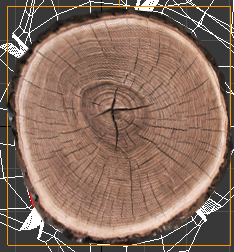
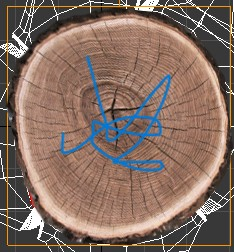
Fix mobileViewer  Conflict in  Main

diff --git a/Front-End/Main-Main-App/DawnPilotFrontEnd/src/pages/MobileViewer/MobileViewer.tsx b/Front-End/Main-Main-App/DawnPilotFrontEnd/src/pages/MobileViewer/MobileViewer.tsx
@@ -1,0 +1,274 @@
+import 'aframe';
+import 'aframe-particle-system-component';
+// eslint-disable-next-line @typescript-eslint/ban-ts-comment
+// @ts-expect-error
+import { Entity, Scene } from 'aframe-react';
+import { useEffect, useRef, useState } from 'react';
+import { useScenarioWorld } from '../../hooks/useScenarioWorld';
+import { useComponentManager } from '../../hooks/useComponentManager';
+import { useFrameBuffer, getFolderHandle } from '../../hooks/useFrameBuffer';
+import { useCameraSync } from '../../hooks/useCameraSync';
+
+// import { SOCKET_URL } from '../../config/api';
+const SOCKET_URL = "http://192.168.1.117:5000";
+
+function MobileView() {
+  const cameraRef = useRef<any>(null);
+  const rigRef = useRef<any>(null);
+
+  const hasReceivedPosition = useRef(false);
+  const [cameraPosition, setCameraPosition] = useState({ x: 0, y: 0, z: 0 });
+
+  const { world, loadWorld } = useScenarioWorld();
+  const { clearAllTimers } = useComponentManager();
+
+  // Mobile follows desktop camera
+  const { isConnected, setOnCameraUpdate } = useCameraSync({
+    clientType: 'mobile',
+    throttleMs: 16
+  });
+
+  // Enable framebuffer capture / saving
+  useFrameBuffer({
+    logInterval: 1000,
+    logPixelData: false,
+    downsamplePercentage: 50
+  });
+
+  // Load world once
+  useEffect(() => {
+    loadWorld()
+      .then(data => {
+        console.log('Mobile - World loaded, entities:', data.entities.length);
+      })
+      .catch(err => {
+        console.error('Failed to load world:', err);
+        alert('Error loading world. Make sure backend is running.');
+      });
+
+    return () => {
+      clearAllTimers();
+    };
+  }, [loadWorld, clearAllTimers]);
+
+  // When desktop camera updates, move/animate rig
+  useEffect(() => {
+    setOnCameraUpdate(camera => {
+      const newPos = camera.position;
+
+      if (!hasReceivedPosition.current) {
+        hasReceivedPosition.current = true;
+        if (rigRef.current?.el?.object3D) {
+          rigRef.current.el.object3D.position.set(newPos.x, newPos.y, newPos.z);
+        }
+      } else {
+        const rigEl = rigRef.current?.el;
+        if (rigEl) {
+          rigEl.setAttribute('animation__follow', {
+            property: 'position',
+            to: `${newPos.x} ${newPos.y} ${newPos.z}`,
+            dur: 200,
+            easing: 'easeOutQuad',
+            startEvents: 'follow-target',
+            autoplay: false
+          });
+          rigEl.emit('follow-target', null, false);
+        }
+      }
+
+      setCameraPosition(newPos);
+    });
+  }, [setOnCameraUpdate]);
+
+  return (
+    <div style={{ background: 'black', width: '100vw', height: '100vh', overflow: 'hidden' }}>
+      <style>{`
+        .a-enter-vr-button {
+          bottom: 20% !important;
+          position: fixed !important;
+          z-index: 99999 !important;
+        }
+        body {
+          overflow: hidden !important;
+        }
+      `}</style>
+
+      {/* WebSocket Connection Status */}
+      <div
+        style={{
+          position: 'absolute',
+          top: 10,
+          right: 10,
+          zIndex: 1000,
+          background: isConnected ? '#4CAF50' : '#f44336',
+          color: 'white',
+          padding: '8px 16px',
+          borderRadius: '4px',
+          fontSize: '12px',
+          fontFamily: 'monospace'
+        }}
+      >
+        {isConnected ? '🟢 Connected' : '🔴 Disconnected'}
+        <div style={{ fontSize: '9px', marginTop: '4px', opacity: 0.8 }}>{SOCKET_URL}</div>
+      </div>
+
+      {/* Mobile Mode Status */}
+      <div
+        style={{
+          position: 'absolute',
+          top: 10,
+          left: 10,
+          zIndex: 1000,
+          background: '#2196F3',
+          color: 'white',
+          padding: '8px 16px',
+          borderRadius: '4px',
+          fontSize: '12px',
+          fontFamily: 'monospace'
+        }}
+      >
+        📱 Mobile Viewer (Following Desktop)
+      </div>
+
+      {/* Camera Position Display */}
+      <div
+        style={{
+          position: 'absolute',
+          top: 50,
+          right: 10,
+          zIndex: 1000,
+          background: 'rgba(0,0,0,0.7)',
+          color: 'white',
+          padding: '8px',
+          borderRadius: '4px',
+          fontSize: '10px',
+          fontFamily: 'monospace'
+        }}
+      >
+        <div>X: {cameraPosition.x.toFixed(2)}</div>
+        <div>Y: {cameraPosition.y.toFixed(2)}</div>
+        <div>Z: {cameraPosition.z.toFixed(2)}</div>
+      </div>
+
+      {/* Folder picker button – calls getFolderHandle from user gesture */}
+      <button
+        style={{
+          position: 'absolute',
+          bottom: 10,
+          right: 10,
+          zIndex: 1000,
+          padding: '8px 16px',
+          borderRadius: 4,
+          border: 'none',
+          cursor: 'pointer',
+          background: '#FF9800',
+          color: '#fff',
+          fontSize: '12px',
+          fontFamily: 'monospace'
+        }}
+        onClick={async () => {
+          try {
+            await getFolderHandle(); // opens showDirectoryPicker once
+          } catch (err) {
+            console.error('Failed to select folder', err);
+          }
+        }}
+      >
+        Select Folder to Save Frames
+      </button>
+
+      <Scene
+        embedded
+        vr-mode-ui="enabled: true"
+        device-orientation-permission-ui="enabled: true"
+        fog="type: linear; color: #111; near: 50; far: 200"
+        style={{ width: '100%', height: '100%' }}
+      >
+        {/* Sky */}
+        <Entity primitive="a-sky" color="#87CEEB" />
+
+        {/* Lights */}
+        <Entity light={{ type: 'ambient', color: '#ffffff', intensity: 0.8 }} />
+        <Entity
+          light={{ type: 'directional', color: '#ffffff', intensity: 1.0 }}
+          position="5 10 2"
+        />
+        <Entity
+          light={{ type: 'directional', color: '#ffffff', intensity: 0.9 }}
+          position="0 2 -6"
+        />
+
+        <Entity
+          primitive="a-plane"
+          position="0 0 -4"
+          rotation="0 0 0"
+          width="20"
+          height="20"
+          color="#ab3232ff"
+          />
+          {/* Ground */}
+        <Entity
+          primitive="a-plane"
+          position="0 -1 -4"
+          rotation="-90 0 0"
+          width="1000"
+          height="1000"
+          color="#000000"
+        />
+
+        {/* Entities from backend */}
+        {world.entities.map(e => {
+          const pos = e.Position || { x: 0, y: 0, z: 0 };
+          const rot = e.Rotation || { x: 0, y: 0, z: 0 };
+          const scl = e.Scale || { x: 1, y: 1, z: 1 };
+          const color = e.Color?.value || '#fff';
+          const url = e.Model?.url;
+
+          if (url === 'Aframe') {
+            const tag = `a-${e.name.toLowerCase()}`;
+            return (
+              <Entity
+                key={e.id}
+                primitive={tag}
+                position={`${pos.x} ${pos.y} ${pos.z}`}
+                rotation={`${rot.x} ${rot.y} ${rot.z}`}
+                scale={`${scl.x} ${scl.y} ${scl.z}`}
+                material={`color: ${color}`}
+              />
+            );
+          }
+
+          return (
+            <Entity
+              key={e.id}
+              gltf-model={url}
+              position={`${pos.x} ${pos.y} ${pos.z}`}
+              rotation={`${rot.x} ${rot.y} ${rot.z}`}
+              scale={`${scl.x} ${scl.y} ${scl.z}`}
+            />
+          );
+        })}
+
+        {/* Rig: position from desktop, orientation from phone */}
+        <Entity
+          ref={rigRef}
+          animation__follow={{
+            property: 'position',
+            dur: 200,
+            easing: 'easeOutQuad',
+            startEvents: 'follow-target',
+            autoplay: false
+          }}
+        >
+          <Entity
+            ref={cameraRef}
+            primitive="a-camera"
+            look-controls="enabled: true; touchEnabled: true; magicWindowTrackingEnabled: false; pointerLockEnabled: false"
+          />
+        </Entity>
+      </Scene>
+    </div>
+  );
+}
+
+export default MobileView;
